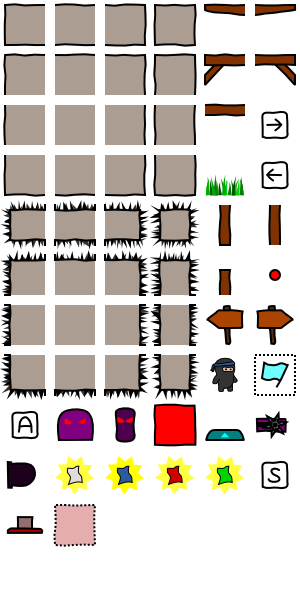
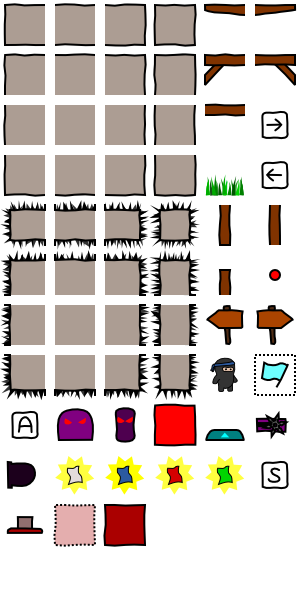
Improved button and appearblock

Changed region(s): [[0.33, 0.84, 0.51, 0.93]]

diff --git a/README.md b/README.md
@@ -10,8 +10,8 @@ Workplan:
 - Content
  - [done] Add bandana items (red, blue, green, yellow)
  - [canceled]Add carrying ability
- - Add hiding ability
- - [canceled]Add movable objects, the player can stand on
+ - [done] Add hiding ability
+ - [canceled] Add movable objects, the player can stand on
  - [done] Draw red blocks similar to ground tiles (16 tiles)
  
 - Engine stuff
